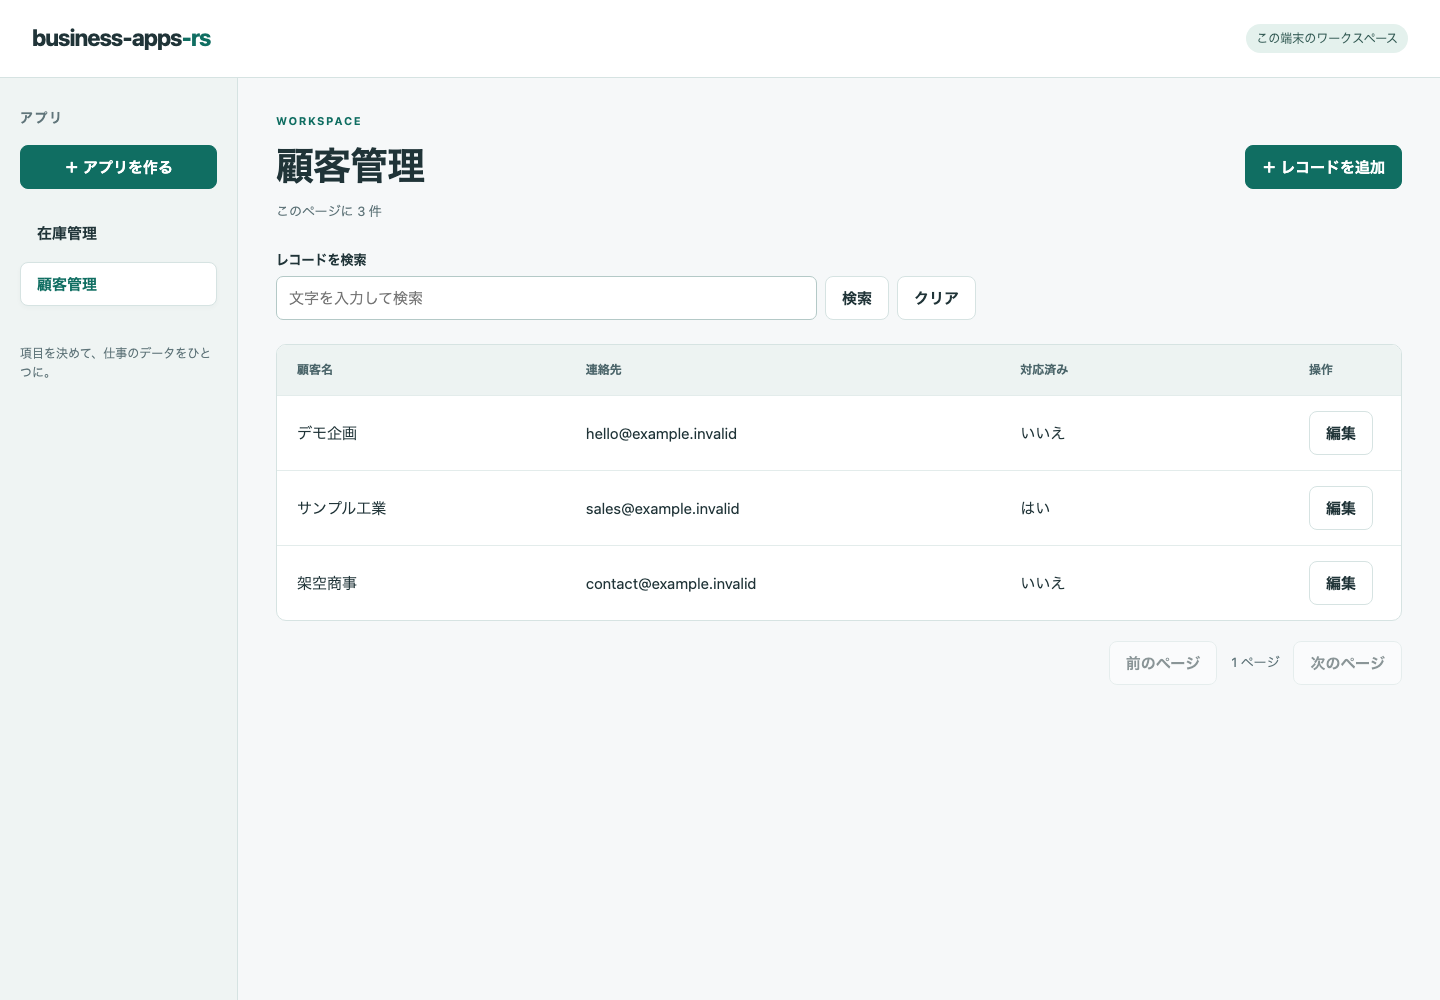
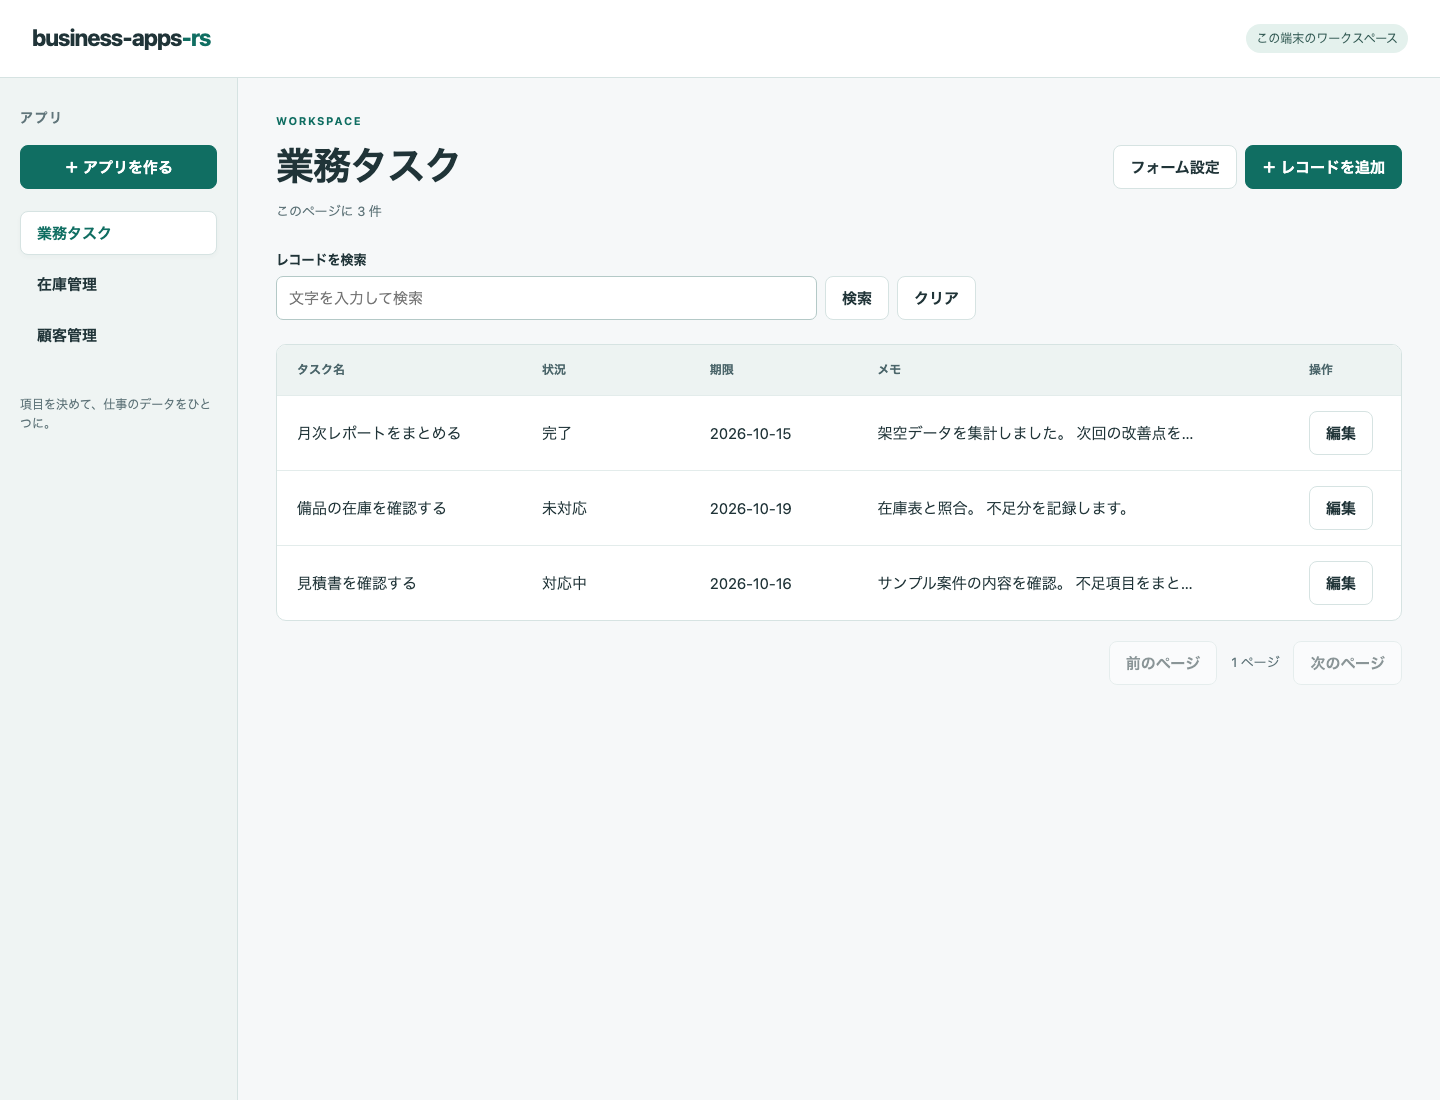
docs: フォーム編集の図解・実画面・検証記録を更新 (#4)

diff --git a/.agent-harness/runs/schema-editing.md b/.agent-harness/runs/schema-editing.md
@@ -1,0 +1,35 @@
+# Schema-editing validation
+
+API revision: `8c1ba55`; reviewed browser/runtime revision: `c5d03cc`.
+Design [Issue 4](https://github.com/haranishi/business-apps-rs/issues/4), [PR 5](https://github.com/haranishi/business-apps-rs/pull/5).
+
+## Evidence
+
+- `scripts/check.sh`: formatting/Clippy, 24 Rust cases, documentation links/SVGs, and JavaScript syntax passed.
+- Rust 1.88 all-targets and dependency license/bans/source checks passed; no dependencies added.
+- Full Chromium suite: 36 cases passed at 390/768/1440 px, including the final review fixes.
+- Domain mutation matrix rejects destructive/retroactive changes; optional additions validate old values.
+- API/storage checks cover stale app revisions, exactly-one-winner concurrency, app isolation, rejected changes, exact record JSON/revision preservation, and reopen.
+- Owned format-1/2 fixtures advance to 3; existing schema/value JSON and record revisions stay intact.
+- Failed migration leaves prior metadata and rows intact; unrelated/future formats remain refused.
+- The first browser run exposed Escape losing the settings invoker focus; re-enabling/focusing before opening the dialog fixed it.
+- Independent review reproduced three additional issues: old-form tabs dropping new values, delayed settings loads replacing newer drafts, and JavaScript trimming immutable API-origin choice labels.
+- Each was fixed and regression-tested; independent temp-DB/API/Chromium rechecks found no new issues.
+- Independent UI-only operation at all widths confirmed save/reload, keyboard movement/focus, conflicts, pending locks, old-tab value retention, and delayed-load draft retention; page errors were zero.
+- UI review: 19/20; affected experience: 20/20. Screen-reader context remains unverified.
+- Updated synthetic screenshots show the table, six-type builder, editor, and form settings; no real business data is included.
+
+The final documentation commit is checked separately by [PR CI](https://github.com/haranishi/business-apps-rs/pull/5/checks); runtime successes are not treated as checks of later commits.
+
+## Performance
+
+[Raw run and conditions](../../docs/benchmarks/schema-editing.json): release, Rust 1.99, arm64 macOS, 14 logical CPUs, SSD project database, SQLite WAL/FULL.
+10,000 initial records, concurrency 8, 500 samples per workload, localhost HTTP including Python overhead.
+p95: read 1.230 ms, page of 30 records 1.420 ms, no-match text scan 26.455 ms, write 2.096 ms.
+This is a repeatable local check, not a benchmark of schema-edit throughput or a comparison with another product.
+
+## Remaining scope
+
+Older tabs display their loaded schema until refreshed, while preserving all loaded record values on save.
+Only optional additions and presentation edits are supported; destructive schema changes need a separate migration design.
+This remains loopback-only without team authentication, authorization, or production deployment support.

diff --git a/docs/performance.md b/docs/performance.md
@@ -36,3 +36,10 @@ The Rust server currently serializes database work on one bounded worker; queuei
 The largest measured cost is per-app text scanning. Typed query indexes or full-text search should be evaluated with realistic filters and update workloads.
 Exact substring semantics, Unicode handling, app isolation, and durable writes must remain explicit when changing that path.
 Use before/after workloads and query plans rather than replacing SQLite solely because of this baseline.
+
+## Follow-up runs
+
+The same local workload was repeated after [rich fields](benchmarks/rich-fields.json) and [safe form editing](benchmarks/schema-editing.json).
+For the schema-editing API source `8c1ba55`, p95 was 1.230 ms for reads, 1.420 ms for 30-record pages, 26.455 ms for no-match text scans, and 2.096 ms for writes.
+The raw files record timestamps, conditions, source revisions, and full percentiles.
+Run-to-run differences do not establish an optimization or regression; these changes add functionality rather than claim a speedup.

diff --git a/docs/ui.md b/docs/ui.md
@@ -53,11 +53,15 @@ User text is rendered with `textContent`; it never becomes executable HTML.
 
 ## Current preview
 
-These screenshots use synthetic customer/contact data.
+These screenshots use synthetic task data.
 
-![Customer records in the current desktop preview](assets/preview.png)
+![Task records in the current desktop preview](assets/preview.png)
 
 ![Typed fields in the app builder](assets/builder.png)
+
+![Date, choice, and multiline record inputs](assets/record-editor.png)
+
+![Safe form settings with locked existing field types](assets/form-settings.png)
 
 The builder supports date, single-choice, and multiline fields alongside text, number, and checkbox.
 Choosing a select field reveals one option per line; the editor uses native date/select controls and a plain textarea.
